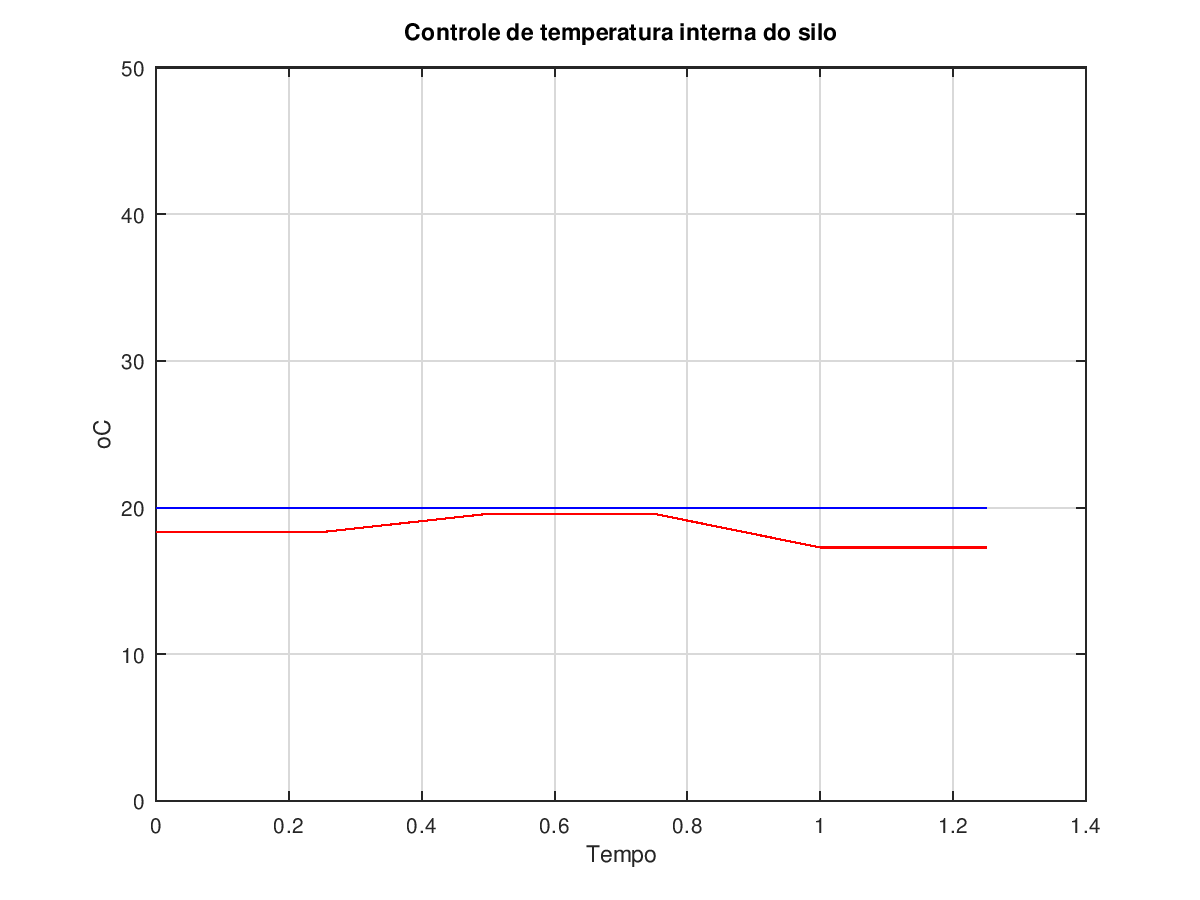
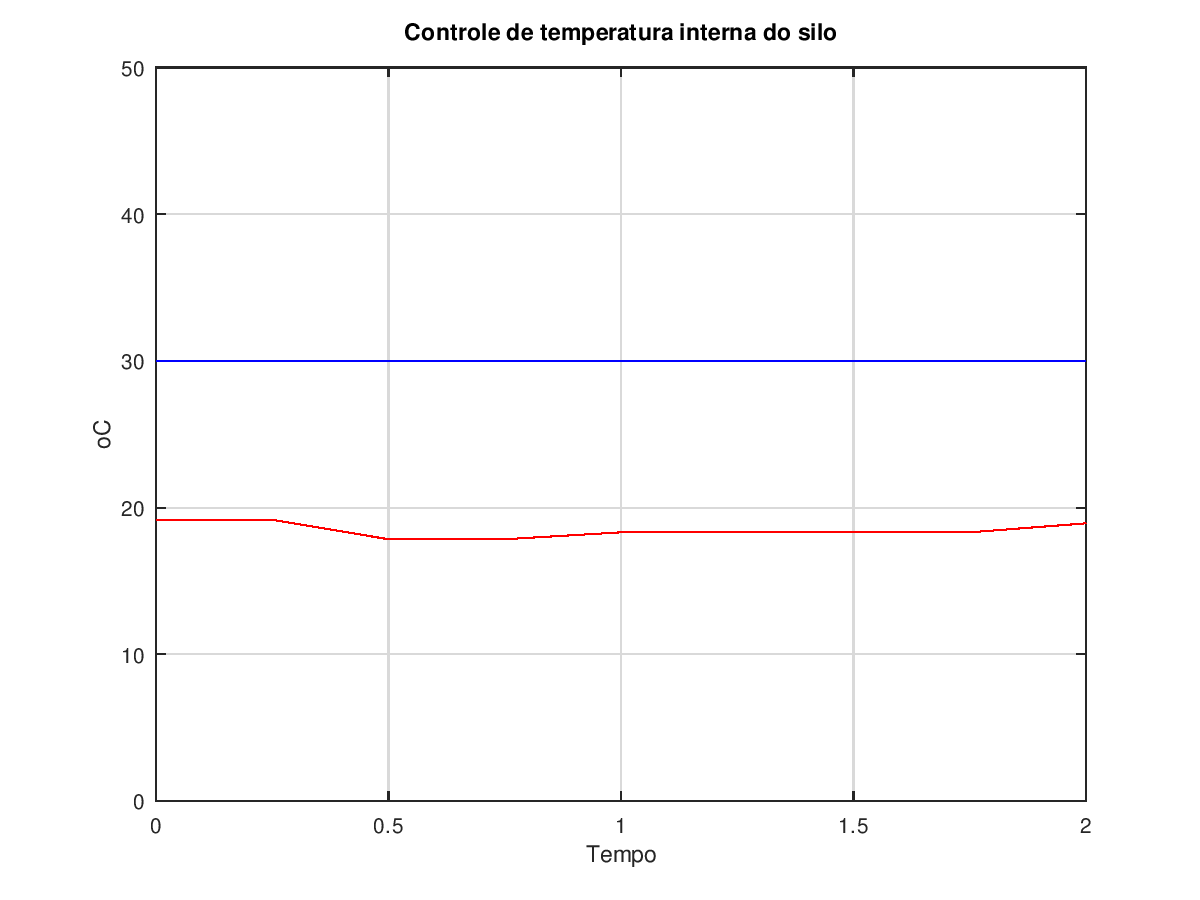
backend updated

diff --git a/backend/index.js b/backend/index.js
@@ -1,18 +1,18 @@
+const { Sensor, Pin, Board } = require('johnny-five');
 const http = require('http');
 const io = require('socket.io')(http);
-const five = require('johnny-five');
-const { run: cmdRun, get: cmdGet} = require('node-cmd');
 const Controller = require('node-pid-controller');
 const { promisify } = require('util');
-const readFile =  promisify(require('fs').readFile);
+const fs = require('fs');
+const cmd = require('node-cmd');
 
 // a porta abaixo é válida para Linux, no Windows ela precisa ser COM1 ou algo parecido
 // descomentar depois 
-// const arduino = new five.Board({ port: '/dev/ttyACM0' });
+// const arduino = new Board({ port: '/dev/ttyACM0' });
 
 let setPoint = 30;
 let u, e = 0;    // valor de saída e valor do erro  
-let therm1, therm2, therm3, therm4, therm5;  // sensores 
+let therms = [];  // sensores 
 let pidInterval, onOffInterval, offInterval, savingInterval; // será usado para armazenar os setIntervals 
 let offControlValue = 0;
 let fileName;
@@ -31,7 +31,7 @@ startApplication();
 function startApplication() {
     setPins();
  
-    // arduino.pinMode(9, five.Pin.PWM);
+    // arduino.pinMode(9, Pin.PWM);
     startControling('Open loop'); 
     io.on('connection', socket => {
         startSending(socket, socket.id);               // começa a mandar os dados para os clientes
@@ -79,6 +79,9 @@ function switchOffController() {
 
 // interpreta o script draw.m para o Octave gerar a imagem do gráfico e logo após starta o servidor para a imagem
 async function octavePlot(fileName, socket) {
+    const cmdGet = promisify(cmd.get);
+    const readFile =  promisify(fs.readFile);
+    
     await cmdGet(`octave-cli ./experiments/octavePlot.m "${fileName}"`);
 
     const file = await readFile('./experiments/currentPlot.png');
@@ -98,31 +101,29 @@ async function octavePlot(fileName, socket) {
 function setPins(pins = ['A0', 'A1', 'A2', 'A3', 'A4']) {
     
     // descomentar depois
-    // therm1 = new five.Sensor({ pin: pins[0], freq: 100 });
-    // therm2 = new five.Sensor({ pin: pins[1], freq: 100 });
-    // therm3 = new five.Sensor({ pin: pins[2], freq: 100 });
-    // therm4 = new five.Sensor({ pin: pins[3], freq: 100 });
-    // therm5 = new five.Sensor({ pin: pins[4], freq: 100 });
+    // therm1 = new Sensor({ pin: pins[0], freq: 100 });
+    // therm2 = new Sensor({ pin: pins[1], freq: 100 });
+    // therm3 = new Sensor({ pin: pins[2], freq: 100 });
+    // therm4 = new Sensor({ pin: pins[3], freq: 100 });
+    // therm5 = new Sensor({ pin: pins[4], freq: 100 });
 
     // comentar depois 
-    therm1 = {value: 0};
-    therm2 = {value: 0};
-    therm3 = {value: 0};
-    therm4 = {value: 0};
-    therm5 = {value: 0};
+    therms[0] = {value: 0};
+    therms[1] = {value: 0};
+    therms[2] = {value: 0};
+    therms[3] = {value: 0};
+    therms[4] = {value: 0};
 
-    setInterval(() => therm1.value = Math.round(Math.random() * 70 + 400), 500);
-    setInterval(() => therm2.value = Math.round(Math.random() * 70 + 400), 500);
-    setInterval(() => therm3.value = Math.round(Math.random() * 70 + 400), 500);
-    setInterval(() => therm4.value = Math.round(Math.random() * 70 + 400), 500);
-    setInterval(() => therm5.value = Math.round(Math.random() * 70 + 400), 500);
+    therms.forEach(therm => {
+        setInterval(() => therm.value = Math.round(Math.random() * 70 + 400), 500);
+    });
 
     console.log(`Pins setted: ${pins}`);
 }
 // começa a salvar em arquivo txt 
 function startSaving(nomeArq) {
     savingInterval = setInterval(() => {
-        cmdRun(`echo ${getTemp()},${scale(u, 'to [0,5]')},${e},${setPoint} >> experiments/data/${nomeArq}.txt`);
+        cmd.run(`echo ${getTemp()},${scale(u, 'to [0,5]')},${e},${setPoint} >> experiments/data/${nomeArq}.txt`);
     }, 250);
 }
 // começa a controlar o secador de grãos a partir do modo passado 
@@ -171,11 +172,14 @@ function pidControling() {
         // arduino.analogWrite(9, u);
     }, 100);
 }
-// retorna a temperatura media
-function getTemp() {
-    return ((toCelsius(therm1.value) + toCelsius(therm2.value) +
-        toCelsius(therm3.value) + toCelsius(therm4.value) + toCelsius(therm5.value)) / 5);
-}
+
+// returns the average temp of the therms array
+const getTemp = () => {
+    const sumTemps = (total, el) => total + toCelsius(el.value);
+    const averageTemp = therms.reduce(sumTemps, 0) / 5;
+    return averageTemp;
+};
+
 // mudar o setPoint 
 function setSetPoint(newSetPoint, socket) {
     console.log(newSetPoint);
@@ -194,13 +198,7 @@ function startSending(socket, clientId) {
     
     // passar o setPoint atual para o novo usuário conectado
     socket.emit('changeSetPoint', setPoint);
-    // quando receber um novo setPoint é necessário mandar o novo set para todos os clientes 
 
-    // tempSend(socket, therm1, 'newTemperature1');
-    // tempSend(socket, therm2, 'newTemperature2');
-    // tempSend(socket, therm3, 'newTemperature3');
-    // tempSend(socket, therm4, 'newTemperature4');
-    // tempSend(socket, therm5, 'newTemperature5');
     setInterval(() => {
         socket.emit('newData', {type: 'Temperature', value: getTemp()});
         socket.emit('newData', {type: 'Mass', value: Math.random() * 1});
